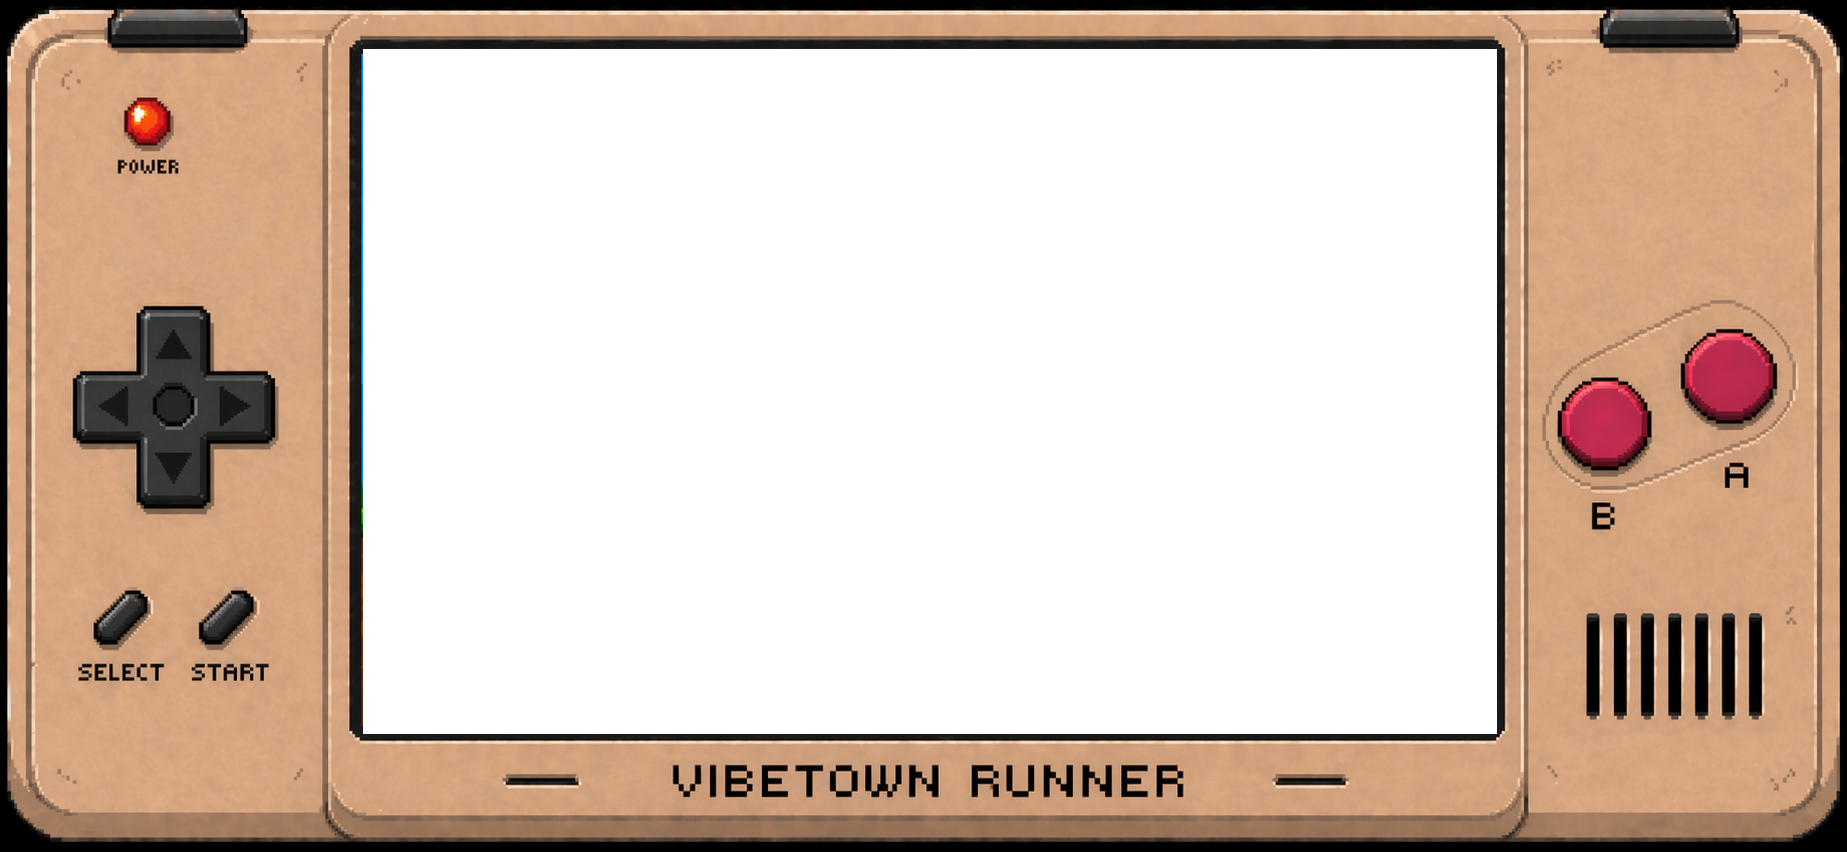
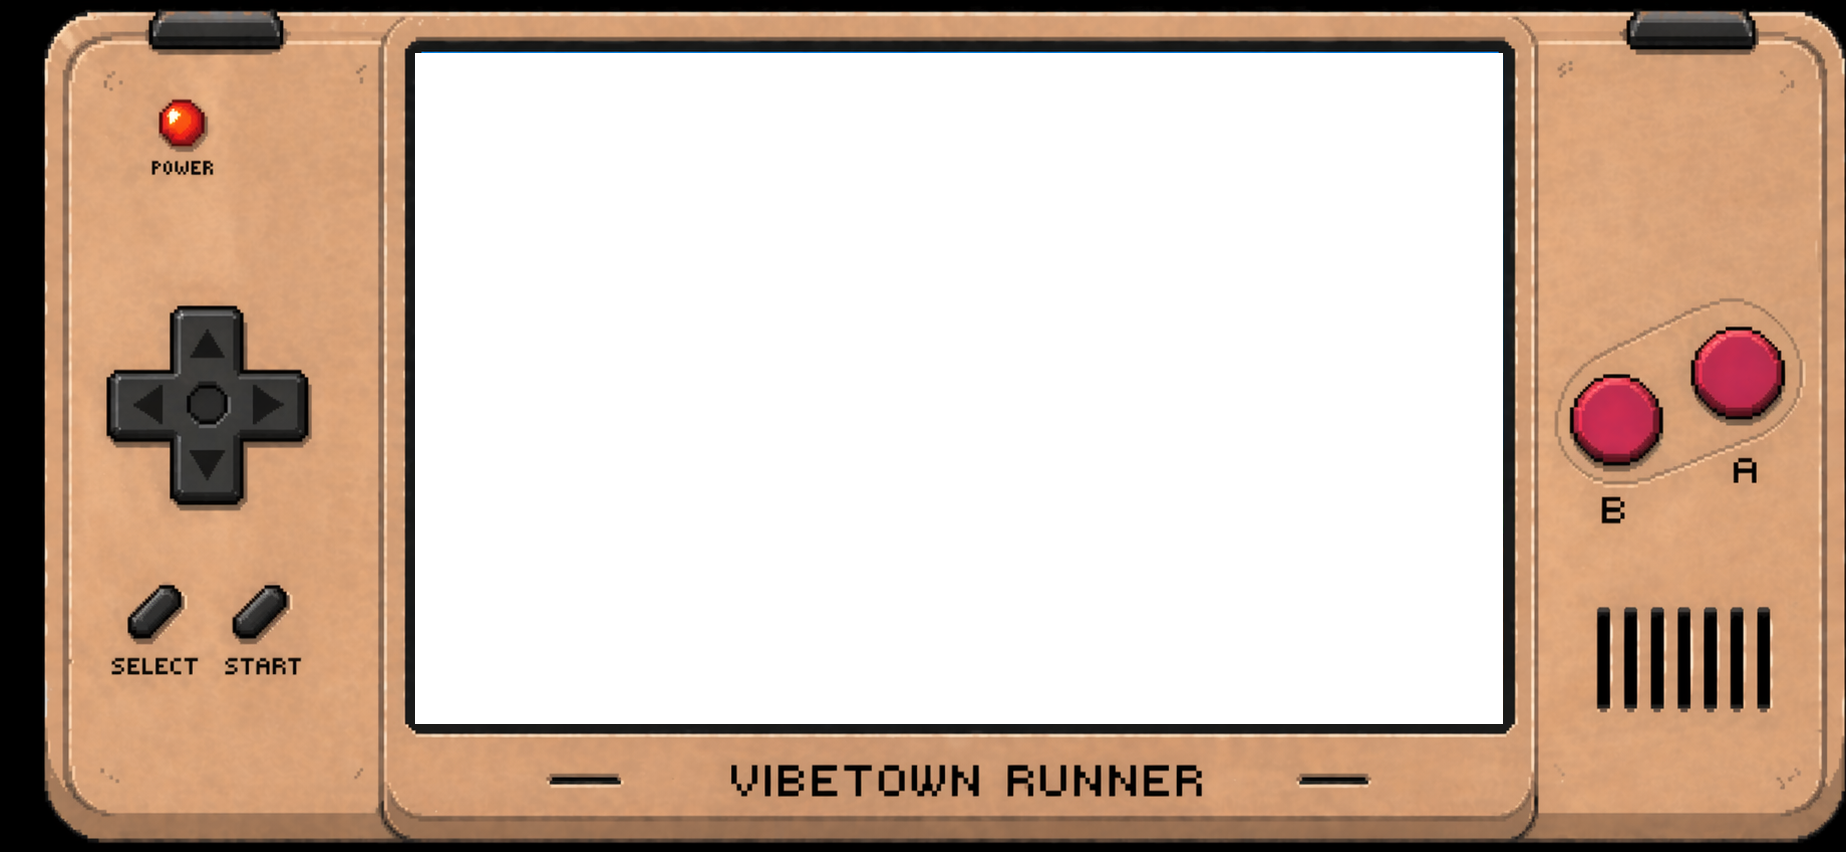
New notch-safe overlay + mobile instructions + realigned hit zones
- Swap CONTROLLER0.png in as mobile-console.png (1846x852, same aspect). Screen rect
  shrinks to 22.48/6.22/58.88/78.64 (was 19.65/5.75/61.34/80.28) — frame bezels are
  thicker to give the iPhone notch safe-area clearance.
- Update canvas % and all 10 hit-zone % positions (D-pad x4, A, B, SELECT, START,
  L-shoulder, R-shoulder) for the new frame layout.
- Instructions panel: duplicate the rows into .instructions-desktop (keyboard text)
  and .instructions-touch (handheld-button text). Toggled by body.has-touch CSS.
  Mobile readers now see D-PAD / A / B / L / R / SELECT / START instead of the
  desktop ARROWS / Z / C / SPACE labels.

Changed region(s): [[0.0, 0.0, 1.0, 1.0]]

diff --git a/index.html b/index.html
@@ -143,9 +143,9 @@
       left: 50%;
       top: 50%;
       transform: translate(-50%, -50%);
-      /* Fit frame image inside viewport preserving 1847:852 aspect */
-      width: min(100vw, calc(100vh * 1847 / 852));
-      height: min(100vh, calc(100vw * 852 / 1847));
+      /* Fit frame image inside viewport preserving 1846:852 aspect (new notch-safe image) */
+      width: min(100vw, calc(100vh * 1846 / 852));
+      height: min(100vh, calc(100vw * 852 / 1846));
       /* No background image here — we put the PNG as a layered <img> below so it sits ON TOP of the canvas */
       background: #0a0a0a;
       user-select: none;
@@ -154,15 +154,15 @@
     }
     body.has-touch #game {
       position: absolute !important;
-      /* Values measured programmatically from transparent pixels in mobile-console.png:
-         left=19.65%, right=81.00%, top=5.75%, bottom=86.03% → width=61.34%, height=80.28%.
+      /* Values measured programmatically from transparent pixels in mobile-console.png (notch-safe version):
+         left=22.48%, top=6.22%, width=58.88%, height=78.64% — aspect 1.622:1.
          Canvas aligns exactly with transparent area so game content doesn't bleed under the frame. */
-      left: 19.65%;
-      top: 5.75%;
-      width: 61.34%;
-      height: 80.28%;
-      /* object-fit: fill stretches the canvas' internal 4:3 rendering into the 1.656:1 screen rect.
-         Tiles become ~24% wider than tall — subtle, acceptable until camera-follow ships. */
+      left: 22.48%;
+      top: 6.22%;
+      width: 58.88%;
+      height: 78.64%;
+      /* object-fit: fill stretches the canvas' internal 4:3 rendering into the 1.622:1 screen rect.
+         Tiles become ~22% wider than tall — subtle, acceptable until camera-follow ships. */
       object-fit: fill;
       image-rendering: auto;
       background: #0a0a0a;
@@ -198,17 +198,19 @@
     body.has-touch .handheld-btn:active {
       background: rgba(245,215,110,0.15);
     }
-    /* D-pad hit zones (4 arrows) — cross-shaped area, eyeball positions to tune */
-    body.has-touch .handheld-btn[data-key="ArrowUp"]    { left: 5.5%;  top: 32%; width: 9%;  height: 10%; }
-    body.has-touch .handheld-btn[data-key="ArrowDown"]  { left: 5.5%;  top: 55%; width: 9%;  height: 10%; }
-    body.has-touch .handheld-btn[data-key="ArrowLeft"]  { left: 1%;    top: 43%; width: 8%;  height: 12%; }
-    body.has-touch .handheld-btn[data-key="ArrowRight"] { left: 10%;   top: 43%; width: 8%;  height: 12%; }
-    /* A (Dig Right, mapped to 'c') and B (Dig Left, mapped to 'z') */
-    body.has-touch .handheld-btn[data-key="c"]          { left: 90.5%; top: 40%; width: 7%;  height: 18%; border-radius: 50%; }
-    body.has-touch .handheld-btn[data-key="z"]          { left: 83%;   top: 43%; width: 7%;  height: 18%; border-radius: 50%; }
+    /* Hit-zone positions eyeballed for CONTROLLER0.png (1846x852, notch-safe layout).
+       Adjust these % values if any button feels off on a real device. */
+    /* D-pad (cross-shape, centered around ~8% horizontal, ~44% vertical) */
+    body.has-touch .handheld-btn[data-key="ArrowUp"]    { left: 5%;   top: 32%; width: 9%;  height: 10%; }
+    body.has-touch .handheld-btn[data-key="ArrowDown"]  { left: 5%;   top: 56%; width: 9%;  height: 10%; }
+    body.has-touch .handheld-btn[data-key="ArrowLeft"]  { left: 0.5%; top: 44%; width: 7%;  height: 12%; }
+    body.has-touch .handheld-btn[data-key="ArrowRight"] { left: 9%;   top: 44%; width: 7%;  height: 12%; }
+    /* A (Dig Right, 'c') and B (Dig Left, 'z') */
+    body.has-touch .handheld-btn[data-key="c"]          { left: 91%;  top: 40%; width: 7%;  height: 17%; border-radius: 50%; }
+    body.has-touch .handheld-btn[data-key="z"]          { left: 83%;  top: 43%; width: 7%;  height: 17%; border-radius: 50%; }
     /* SELECT (pause, 'Escape') and START (menu, 'm') */
-    body.has-touch .handheld-btn[data-key="Escape"]     { left: 3.5%;  top: 75%; width: 5%;  height: 7%; }
-    body.has-touch .handheld-btn[data-key="m"]          { left: 9%;    top: 75%; width: 5%;  height: 7%; }
+    body.has-touch .handheld-btn[data-key="Escape"]     { left: 4%;   top: 77%; width: 5%;  height: 7%; }
+    body.has-touch .handheld-btn[data-key="m"]          { left: 10%;  top: 77%; width: 5%;  height: 7%; }
     /* L / R shoulder buttons on top of console — both trigger LFV (' ') */
     body.has-touch .handheld-btn[data-key=" "].shoulder-L { left: 3%;  top: 0%;  width: 9%;  height: 5%; }
     body.has-touch .handheld-btn[data-key=" "].shoulder-R { left: 88%; top: 0%;  width: 9%;  height: 5%; }
@@ -400,6 +402,10 @@
       50% { transform: translateY(-8px); }
     }
     #menu-panel.hidden, #instructions-panel.hidden, #options-panel.hidden, #leaderboard-panel.hidden { display: none; }
+    /* Swap instruction text set based on input mode. Desktop sees ARROWS/Z/C/SPACE; mobile sees D-PAD/A/B/L/R/SELECT/START. */
+    .instructions-touch { display: none; }
+    body.has-touch .instructions-desktop { display: none; }
+    body.has-touch .instructions-touch { display: block; }
     #instructions-panel, #options-panel, #leaderboard-panel {
       position: relative;
       width: min(968px, 90vw);
@@ -948,37 +954,79 @@
           <img id="instructions-frame" src="/assets/backgrounds/instructions-frame.png" alt="">
           <div id="instructions-inner">
             <div style="font-family:'Brice',sans-serif;font-weight:900;font-size:36px;color:#F5D76E;text-align:center;margin-top:-8px;margin-bottom:12px;image-rendering:pixelated">HOW TO:</div>
-            <div class="instruction-row">
-              <span class="instruction-key">ARROWS</span>
-              <span class="instruction-desc">Move & Climb</span>
+            <!-- Desktop / keyboard instructions. Hidden on mobile via body.has-touch CSS rule below. -->
+            <div class="instructions-desktop">
+              <div class="instruction-row">
+                <span class="instruction-key">ARROWS</span>
+                <span class="instruction-desc">Move & Climb</span>
+              </div>
+              <div class="instruction-row">
+                <span class="instruction-key">Z</span>
+                <span class="instruction-desc">Dig Left</span>
+              </div>
+              <div class="instruction-row">
+                <span class="instruction-key">C</span>
+                <span class="instruction-desc">Dig Right</span>
+              </div>
+              <div class="instruction-row">
+                <span class="instruction-key">SPACE</span>
+                <span class="instruction-desc">Activate LFV Mode</span>
+              </div>
+              <div class="instruction-row">
+                <span class="instruction-key">GOAL</span>
+                <span class="instruction-desc">Collect all money bags</span>
+              </div>
+              <div class="instruction-row">
+                <span class="instruction-key">ESCAPE</span>
+                <span class="instruction-desc">Climb hidden ladder</span>
+              </div>
+              <div class="instruction-row">
+                <span class="instruction-key">HELMET</span>
+                <span class="instruction-desc">Shadow Funk Mode</span>
+              </div>
+              <div class="instruction-row">
+                <span class="instruction-key">Z / C / SPACE</span>
+                <span class="instruction-desc">Fire (Shadow Funk)</span>
+              </div>
             </div>
-            <div class="instruction-row">
-              <span class="instruction-key">Z</span>
-              <span class="instruction-desc">Dig Left</span>
-            </div>
-            <div class="instruction-row">
-              <span class="instruction-key">C</span>
-              <span class="instruction-desc">Dig Right</span>
-            </div>
-            <div class="instruction-row">
-              <span class="instruction-key">SPACE</span>
-              <span class="instruction-desc">Activate LFV Mode</span>
-            </div>
-            <div class="instruction-row">
-              <span class="instruction-key">GOAL</span>
-              <span class="instruction-desc">Collect all money bags</span>
-            </div>
-            <div class="instruction-row">
-              <span class="instruction-key">ESCAPE</span>
-              <span class="instruction-desc">Climb hidden ladder</span>
-            </div>
-            <div class="instruction-row">
-              <span class="instruction-key">HELMET</span>
-              <span class="instruction-desc">Shadow Funk Mode</span>
-            </div>
-            <div class="instruction-row">
-              <span class="instruction-key">Z / C / SPACE</span>
-              <span class="instruction-desc">Fire (Shadow Funk)</span>
+            <!-- Touch / handheld instructions. Hidden on desktop. -->
+            <div class="instructions-touch">
+              <div class="instruction-row">
+                <span class="instruction-key">D-PAD</span>
+                <span class="instruction-desc">Move & Climb</span>
+              </div>
+              <div class="instruction-row">
+                <span class="instruction-key">B</span>
+                <span class="instruction-desc">Dig Left</span>
+              </div>
+              <div class="instruction-row">
+                <span class="instruction-key">A</span>
+                <span class="instruction-desc">Dig Right</span>
+              </div>
+              <div class="instruction-row">
+                <span class="instruction-key">L / R</span>
+                <span class="instruction-desc">Activate LFV Mode</span>
+              </div>
+              <div class="instruction-row">
+                <span class="instruction-key">GOAL</span>
+                <span class="instruction-desc">Collect all money bags</span>
+              </div>
+              <div class="instruction-row">
+                <span class="instruction-key">SELECT</span>
+                <span class="instruction-desc">Pause</span>
+              </div>
+              <div class="instruction-row">
+                <span class="instruction-key">START</span>
+                <span class="instruction-desc">Main Menu</span>
+              </div>
+              <div class="instruction-row">
+                <span class="instruction-key">HELMET</span>
+                <span class="instruction-desc">Shadow Funk Mode</span>
+              </div>
+              <div class="instruction-row">
+                <span class="instruction-key">A / B / L / R</span>
+                <span class="instruction-desc">Fire (Shadow Funk)</span>
+              </div>
             </div>
           </div>
         </div>
